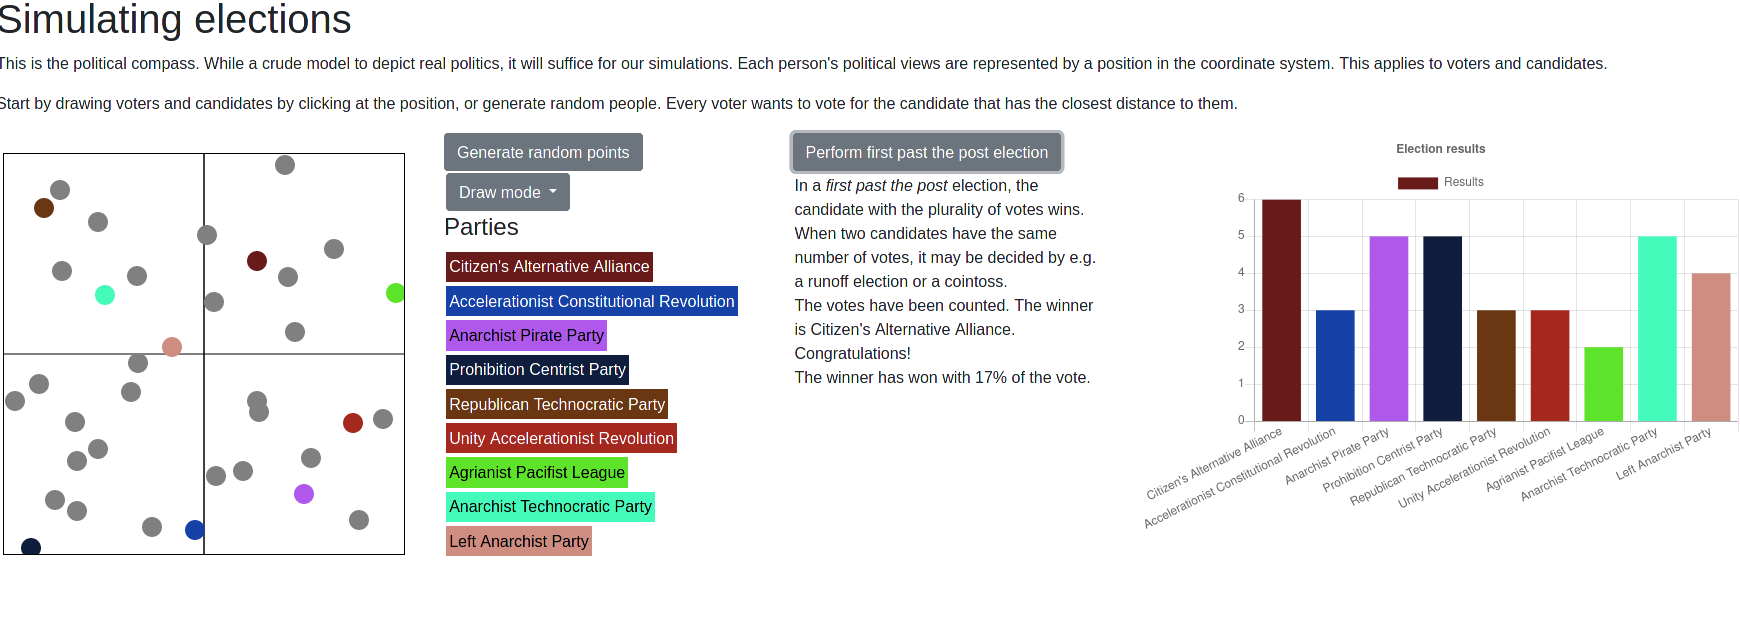
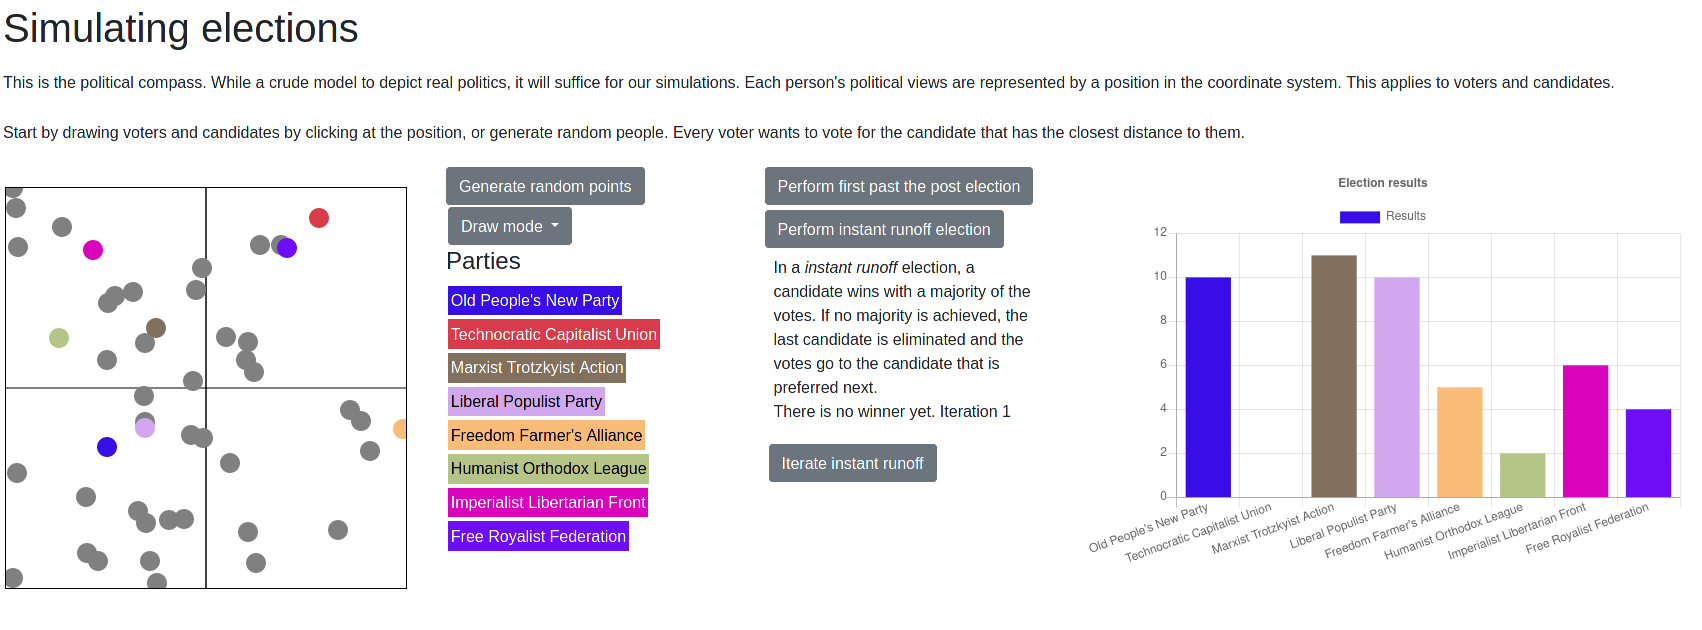
Add instant runoff voting

diff --git a/js/elections.js b/js/elections.js
@@ -12,6 +12,10 @@ class Election {
         // subclass responsibility
     }
 
+    majority() {
+        return Math.ceil(this.model.voters.length / 2)
+    }
+
     drawDiagram(data, colors, labels) {
         this.barChart?.destroy()
         let canvas = document.getElementById("diagram-canvas");
@@ -59,7 +63,16 @@ class Election {
     }
 
     getWinner() {
-        // subclass responsibility
+        let winner_index = this.results.indexOf(Math.max.apply(Math, this.results))
+        return this.model.candidates[winner_index]
+    }
+
+    getWinnerVotes() {
+        return Math.max.apply(Math, this.results)
+    }
+
+    getWinnerPercentage() {
+        return Math.round(this.getWinnerVotes() / this.model.voters.length * 100)
     }
 
 }
@@ -92,19 +105,6 @@ class FirstPastThePost extends Election {
 
     resultClear() {
         return this.results.indexOf(this.getWinnerVotes()) === this.results.lastIndexOf(this.getWinnerVotes())
-    }
-
-    getWinner() {
-        let winner_index = this.results.indexOf(Math.max.apply(Math, this.results))
-        return this.model.candidates[winner_index]
-    }
-
-    getWinnerVotes() {
-        return Math.max.apply(Math, this.results)
-    }
-
-    getWinnerPercentage() {
-        return Math.round(this.getWinnerVotes() / this.model.voters.length * 100)
     }
 
     getRunoffCandidates() {
@@ -194,6 +194,97 @@ class FirstPastThePost extends Election {
 
 }
 
+class InstantRunoff extends Election {
+
+    constructor() {
+        super()
+    }
+
+    performElection() {
+        this.eliminatedCandidates = []
+        this.results = this.calculateResults()
+        this.drawDiagram(this.results, document.model.candidates.map((value) => value.color),
+            document.model.candidates.map((value) => value.party))
+        this.iteration = 0;
+        this.setResultText();
+    }
+
+    performIteration() {
+        if (!this.electionOver()) {
+            this.eliminateCandidate(this.getLowestPerformingCandidate().id)
+            this.results = this.calculateResults()
+            this.drawDiagram(this.results, document.model.candidates.map((value) => value.color),
+                document.model.candidates.map((value) => value.party))
+            this.iteration++
+            this.setResultText();
+        }
+    }
+
+    eliminateCandidate(candidate_id) {
+        this.eliminatedCandidates.push(candidate_id)
+    }
+
+    getLowestPerformingCandidate() {
+        for (let i = 0; i < this.results.length; i++) {
+            if(!this.stillPerforming(i)){
+                this.results[i] = Infinity
+            }
+        }
+        let looser = this.model.candidates[this.results.indexOf(Math.min.apply(Math, this.results))]
+        for (let i = 0; i < this.results.length; i++) {
+            if(this.results[i] === Infinity){
+                this.results[i] = 0
+            }
+        }
+        return looser
+    }
+
+    electionOver() {
+        return this.getWinnerVotes() > this.majority()
+    }
+
+    stillPerforming(candidate_id) {
+        return !this.eliminatedCandidates.includes(candidate_id)
+    }
+
+    calculateResults() {
+        let preferences = this.model.calculatePreferences()
+
+        let voteCount = new Array(this.model.candidates.length).fill(0)
+
+        for (let voter_preference in preferences) {
+            const voter = voter_preference
+            for (let i = 0; i < preferences[voter].length; i++) {
+                if (this.stillPerforming(preferences[voter][i])) {
+                    voteCount[preferences[voter][i]]++
+                    break
+                }
+            }
+        }
+        return voteCount
+    }
+
+    setResultText() {
+        const text_container = document.getElementById("election-result-text")
+        text_container.innerHTML = ''
+        const text = document.createElement("div")
+        let content = "<p>In an <i>instant runoff</i> election, a candidate wins with a majority of the votes. If no majority is achieved, the candidate with the fewest votes is eliminated and the votes go to the candidate that is preferred next."
+        if (!this.electionOver()) {
+            content += "</br> There is no winner yet. Iteration " + this.iteration + "</p>"
+            let iterationButton = "<button onclick=\"instantRunoffIteration()\" class=\"btn btn-secondary\">Iterate instant runoff</button>"
+            content += iterationButton
+        } else {
+            content += "</br> The votes have been counted. The winner is the " + this.getWinner().party + ". Congratulations! </br> The winner has won with " + this.getWinnerPercentage() + "% of the effective vote.</p>"
+        }
+
+        text.innerHTML = content
+        text_container.appendChild(text)
+    }
+
+}
+
+let ir
+
 let fptp
 
 function firstPastThePost() {
@@ -203,4 +294,13 @@ function firstPastThePost() {
 
 function performRunOff() {
     fptp.performRunOffElection()
+}
+
+function instantRunoff() {
+    ir = new InstantRunoff()
+    ir.performElection()
+}
+
+function instantRunoffIteration() {
+    ir.performIteration()
 }

diff --git a/index.html b/index.html
@@ -18,7 +18,7 @@
 
 <body>
     <h1>Simulating elections</h1>
-    <p> This is the political compass. While a crude model to depict real politics, it will suffice for our simulations.
+    <p> This is the political coordinate system. While a crude model to depict real politics, it will suffice for our simulations.
         Each person's political views are represented by a position in the coordinate system. This applies to voters and
         candidates.
     </p>
@@ -48,12 +48,15 @@
         </div>
         <div class="col-sm">
             <button onclick="firstPastThePost()" class="btn btn-secondary">Perform first past the post election</button>
+            <button onclick="instantRunoff()" class="btn btn-secondary">Perform instant runoff election</button>
             <div id="election-result-text"></div>
         </div>
         <div id="election-results" class="col-sm">
             <canvas id="diagram-canvas" width="600" height="400" style="display: block; margin:auto"></canvas>
         </div>
     </div>
+
+    <p>This system assumes that each voter votes exactly for the candidate that is closest to their positions. It also assumes that voters fill out ballots with all possible alternatives.</p>
 
 
 

diff --git a/css/custom.css b/css/custom.css
@@ -31,6 +31,9 @@ p {
     width: 100%
 }
 
+.btn-secondary {
+    margin: 5px
+}
 
 .footer {
     position: fixed;

diff --git a/README.md b/README.md
@@ -3,9 +3,13 @@ This tool allows you to simulate elections. Place candidates and voters on a pol
 
 ![](doc/Screenshot_20201120.png)
 
-Currently only first past the post is implemented.
-
 [Try it](https://frcroth.de/elections/)
+
+### Mechanisms
+
+Currently implemented voting mechanisms:
+- First past the post
+- Instant runoff
 
 ### Usage
 
